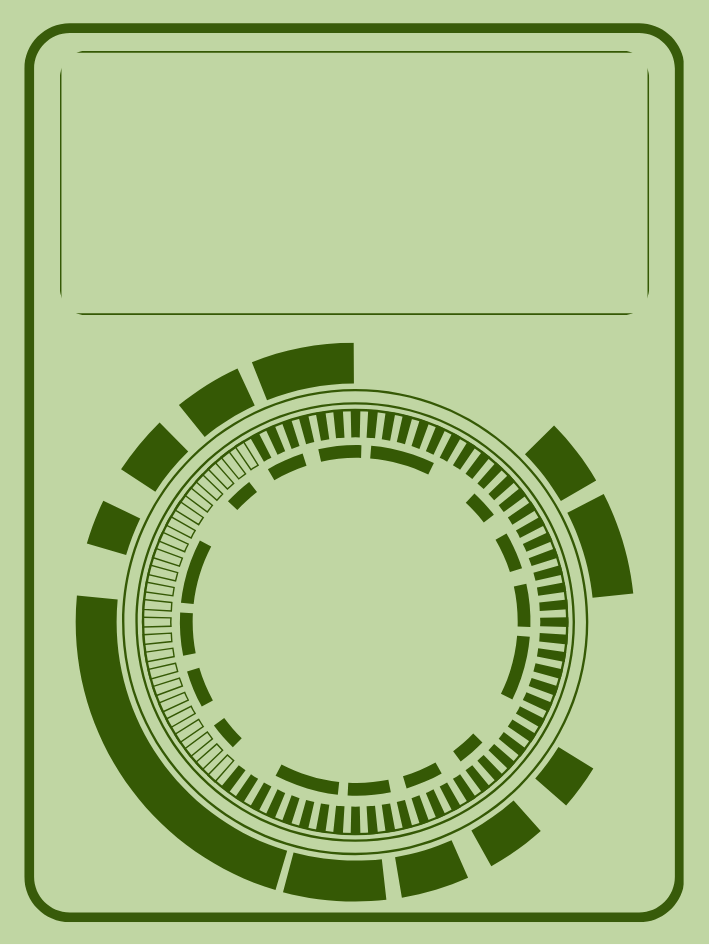
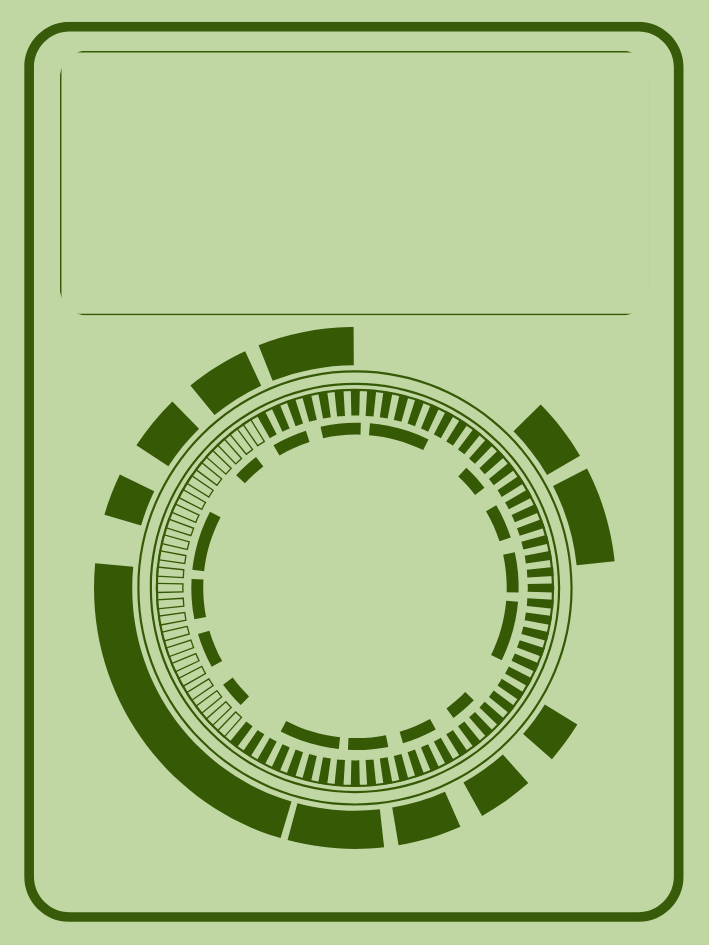
Lay out mission frame 12 the way it is drawn
The frame draws a wide panel across the top and a round badge below it,
but the code assumed every frame puts its picture above its words. So the
question was printed straight across the badge's ring and could not be
read, while the hero was stretched over the panel meant to hold the text.

The two now swap: the question sits in the panel (8%..32%, the panel the
frame actually draws) and the hero sits inside the badge. The name of the
game goes in the clear margin under the ring.

Two small things had to give way for it. A picture window can now carry
its own left and right, not just a height, so it can be a circle rather
than a full-width strip. And a band recorded as exact is no longer opened
out to a minimum height - on this frame there is no spare background to
open it into, which is how the words ended up on the drawing.

Artwork replaced by the author.

Changed region(s): [[0.0931, 0.3376, 0.8999, 0.982], [0.1241, 0.0307, 0.8688, 0.0614], [0.031, 0.0307, 0.0621, 0.0614]]

diff --git a/assets/css/app.css b/assets/css/app.css
@@ -699,8 +699,8 @@ hr { border: 0; border-top: 1px solid var(--line); margin: 20px 0; }
 /* The picture window some frames draw, and the small hero for those that do not */
 .pcard__window {
   position: absolute;
-  left: 16%;
-  right: 16%;
+  left: var(--hero-left, 16%);
+  right: var(--hero-right, 16%);
   top: var(--hero-top, 8%);
   height: var(--hero-height, 44%);
 }

diff --git a/assets/css/print.css b/assets/css/print.css
@@ -264,8 +264,8 @@ html, body {
 /* The picture window some frames draw above their text box */
 .card-cut__window {
   position: absolute;
-  left: 16%;
-  right: 16%;
+  left: var(--hero-left, 16%);
+  right: var(--hero-right, 16%);
   top: var(--hero-top, 8%);
   height: var(--hero-height, 44%);
   display: grid;

diff --git a/app/Services/PrintBundle.php b/app/Services/PrintBundle.php
@@ -304,7 +304,7 @@ class PrintBundle
         9  => ['mission' => [24.1, 20.0], 'move' => [26.6, 22.0]],
         10 => ['mission' => [20.9, 20.0], 'move' => [26.6, 26.6]],
         11 => ['mission' => [20.9, 20.0], 'move' => [26.6, 26.6]],
-        12 => ['mission' => [62.0, 10.0], 'move' => [21.9, 22.2]],
+        12 => ['mission' => [8.0, 68.0], 'move' => [21.9, 22.2]],
         13 => ['mission' => [17.8, 20.0], 'move' => [21.9, 21.6]],
         14 => ['mission' => [18.1, 20.0], 'move' => [23.8, 23.8]],
         15 => ['mission' => [62.0, 10.0], 'move' => [23.4, 23.8]],
@@ -332,10 +332,34 @@ class PrintBundle
         9   => ['mission' => null, 'move' => 92.1],
         10  => ['mission' => null, 'move' => 78.6],
         11  => ['mission' => 86.1, 'move' => 81.4],
-        12  => ['mission' => null, 'move' => 87.7],
+        12  => ['mission' => 93.0, 'move' => 87.7],
         13  => ['mission' => null, 'move' => 87.9],
         14  => ['mission' => 92.5, 'move' => 86.8],
         15  => ['mission' => null, 'move' => 86.8],
+    ];
+
+    /**
+     * Bands that are measured to the millimetre and must be left alone.
+     *
+     * safeZone opens a narrow band out so a question is not squeezed, which is
+     * right where the frame has spare background around it. On these it has
+     * none: the band is exactly the panel the frame drew, and a millimetre
+     * either way puts the words on top of the drawing.
+     */
+    private const EXACT_BANDS = [
+        12 => ['mission' => true],
+    ];
+
+    /**
+     * Frames that drew their picture window somewhere other than above the
+     * words, as top / height / left / right in percent of the card.
+     *
+     * Frame 12 is the one that needs this: it draws a wide panel at the top
+     * and a round badge below, so the question goes in the panel and the hero
+     * goes in the badge - the other way round from every other frame.
+     */
+    private const HERO_WINDOWS = [
+        12 => ['mission' => ['top' => 50.0, 'height' => 24.0, 'left' => 28.0, 'right' => 28.0]],
     ];
 
     /** How much of the card height one caption line needs */
@@ -393,7 +417,7 @@ class PrintBundle
         [$top, $bottom] = self::SAFE_ZONES[$style][$kind] ?? [22.0, 20.0];
 
         $band = 100 - $top - $bottom;
-        if ($band < self::MIN_BAND) {
+        if ($band < self::MIN_BAND && !(self::EXACT_BANDS[$style][$kind] ?? false)) {
             // Open it out around its own middle rather than from one side
             $grow   = (self::MIN_BAND - $band) / 2;
             $top    = max(4.0, $top - $grow);
@@ -409,6 +433,11 @@ class PrintBundle
      */
     public static function heroWindow(int $style, string $kind = 'mission'): ?array
     {
+        $set = self::HERO_WINDOWS[$style][$kind] ?? null;
+        if ($set !== null) {
+            return $set;
+        }
+
         [$top] = self::safeZone($style, $kind);
 
         // Not enough room over the band for a picture worth printing
@@ -416,7 +445,7 @@ class PrintBundle
             return null;
         }
 
-        return ['top' => 8.0, 'height' => round($top - 12.0, 1)];
+        return ['top' => 8.0, 'height' => round($top - 12.0, 1), 'left' => 16.0, 'right' => 16.0];
     }
 
     /**

diff --git a/app/Views/print/bundle.php b/app/Views/print/bundle.php
@@ -81,6 +81,8 @@ $qSize = function (string $question): string {
             <?php if ($frames['window']): ?>
             --hero-top: <?= $frames['window']['top'] ?>%;
             --hero-height: <?= $frames['window']['height'] ?>%;
+            --hero-left: <?= $frames['window']['left'] ?? 16 ?>%;
+            --hero-right: <?= $frames['window']['right'] ?? 16 ?>%;
             <?php endif; ?>
         }
         <?php if ($frames['mission']): ?>

diff --git a/app/Views/exports/preview.php b/app/Views/exports/preview.php
@@ -27,6 +27,8 @@ $poseNo    = 0;
             <?php if ($frames['window']): ?>
             --hero-top: <?= $frames['window']['top'] ?>%;
             --hero-height: <?= $frames['window']['height'] ?>%;
+            --hero-left: <?= $frames['window']['left'] ?? 16 ?>%;
+            --hero-right: <?= $frames['window']['right'] ?? 16 ?>%;
             <?php endif; ?>
         }
         <?php if ($frames['mission']): ?>
